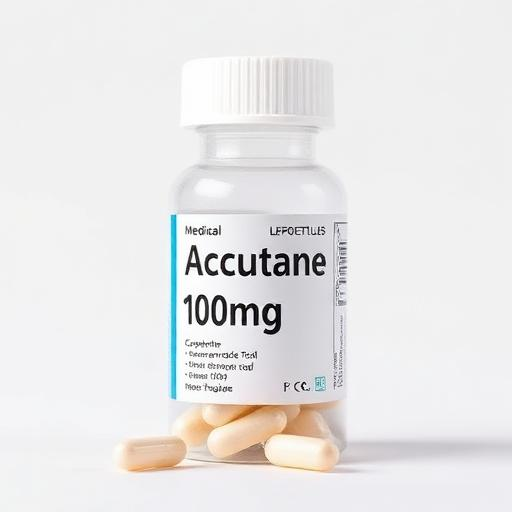
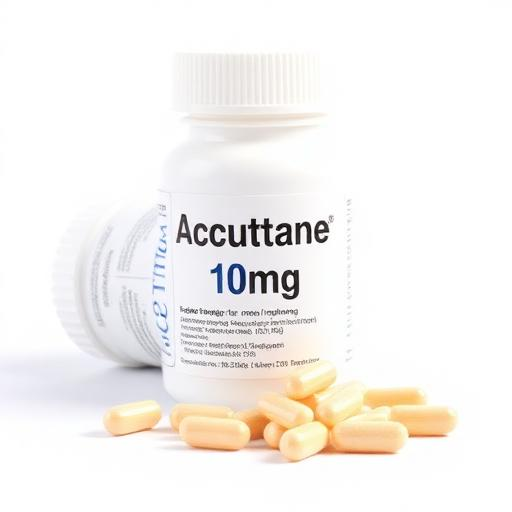
Fix:
- Added Accutane image.
- Added missing form field attributes.
- Fixed Google login issue.
- Addressed deprecated feature warnings.
- Corrected Quirks Mode.

Changed region(s): [[0.1562, 0.0938, 1.0, 0.9375], [0.4062, 0.0938, 0.4688, 0.1875]]

diff --git a/src/lib/auth.ts b/src/lib/auth.ts
@@ -85,21 +85,28 @@ export const signIn = async (email: string, password: string) => {
 export const signInWithGoogle = async (referralCode?: string) => {
   console.log('Starting Google signin...', { referralCode });
   
-  const queryParams: any = {};
-  if (referralCode) queryParams.referred_by = referralCode;
-  
   // Get country from localStorage if available
   const pendingCountry = localStorage.getItem('pending_country');
+  
+  // Store referral data in localStorage for post-auth handling
+  const authMetadata: any = {};
+  if (referralCode) {
+    authMetadata.referred_by = referralCode;
+    localStorage.setItem('pending_referral', referralCode);
+  }
   if (pendingCountry) {
-    queryParams.country = pendingCountry;
-    localStorage.removeItem('pending_country');
+    authMetadata.country = pendingCountry;
+    // Keep country in localStorage for post-auth handling
   }
   
   const { data, error } = await supabase.auth.signInWithOAuth({
     provider: 'google',
     options: {
       redirectTo: `${window.location.origin}/`,
-      queryParams
+      queryParams: {
+        access_type: 'offline',
+        prompt: 'select_account'
+      }
     }
   });
 

diff --git a/src/lib/products.ts b/src/lib/products.ts
@@ -1,3 +1,5 @@
+import accutaneImage from '@/assets/accutane.png';
+
 export interface Product {
   id: string;
   name: string;
@@ -300,7 +302,7 @@ export const products: Product[] = [
     id: 'accutane',
     name: 'Accutane (Isotretinoin)',
     price: 30,
-    image: '/lovable-uploads/a49cd35f-62dc-449e-b143-2ebdc5fa0f61.png',
+    image: accutaneImage,
     category: 'support',
     description: 'Powerful acne treatment medication for severe acne and skin conditions. Highly effective for hormonal acne often experienced during cycles.',
     specifications: {

diff --git a/src/components/auth/AuthForm.tsx b/src/components/auth/AuthForm.tsx
@@ -143,7 +143,7 @@ const AuthForm = ({
             {language === 'en' ? 'Country' : 'País'} *
           </Label>
           <Select value={country} onValueChange={onCountryChange} required>
-            <SelectTrigger className="mt-1">
+            <SelectTrigger id="auth-country" className="mt-1">
               <SelectValue placeholder={language === 'en' ? 'Select your country' : 'Selecciona tu país'} />
             </SelectTrigger>
             <SelectContent>
